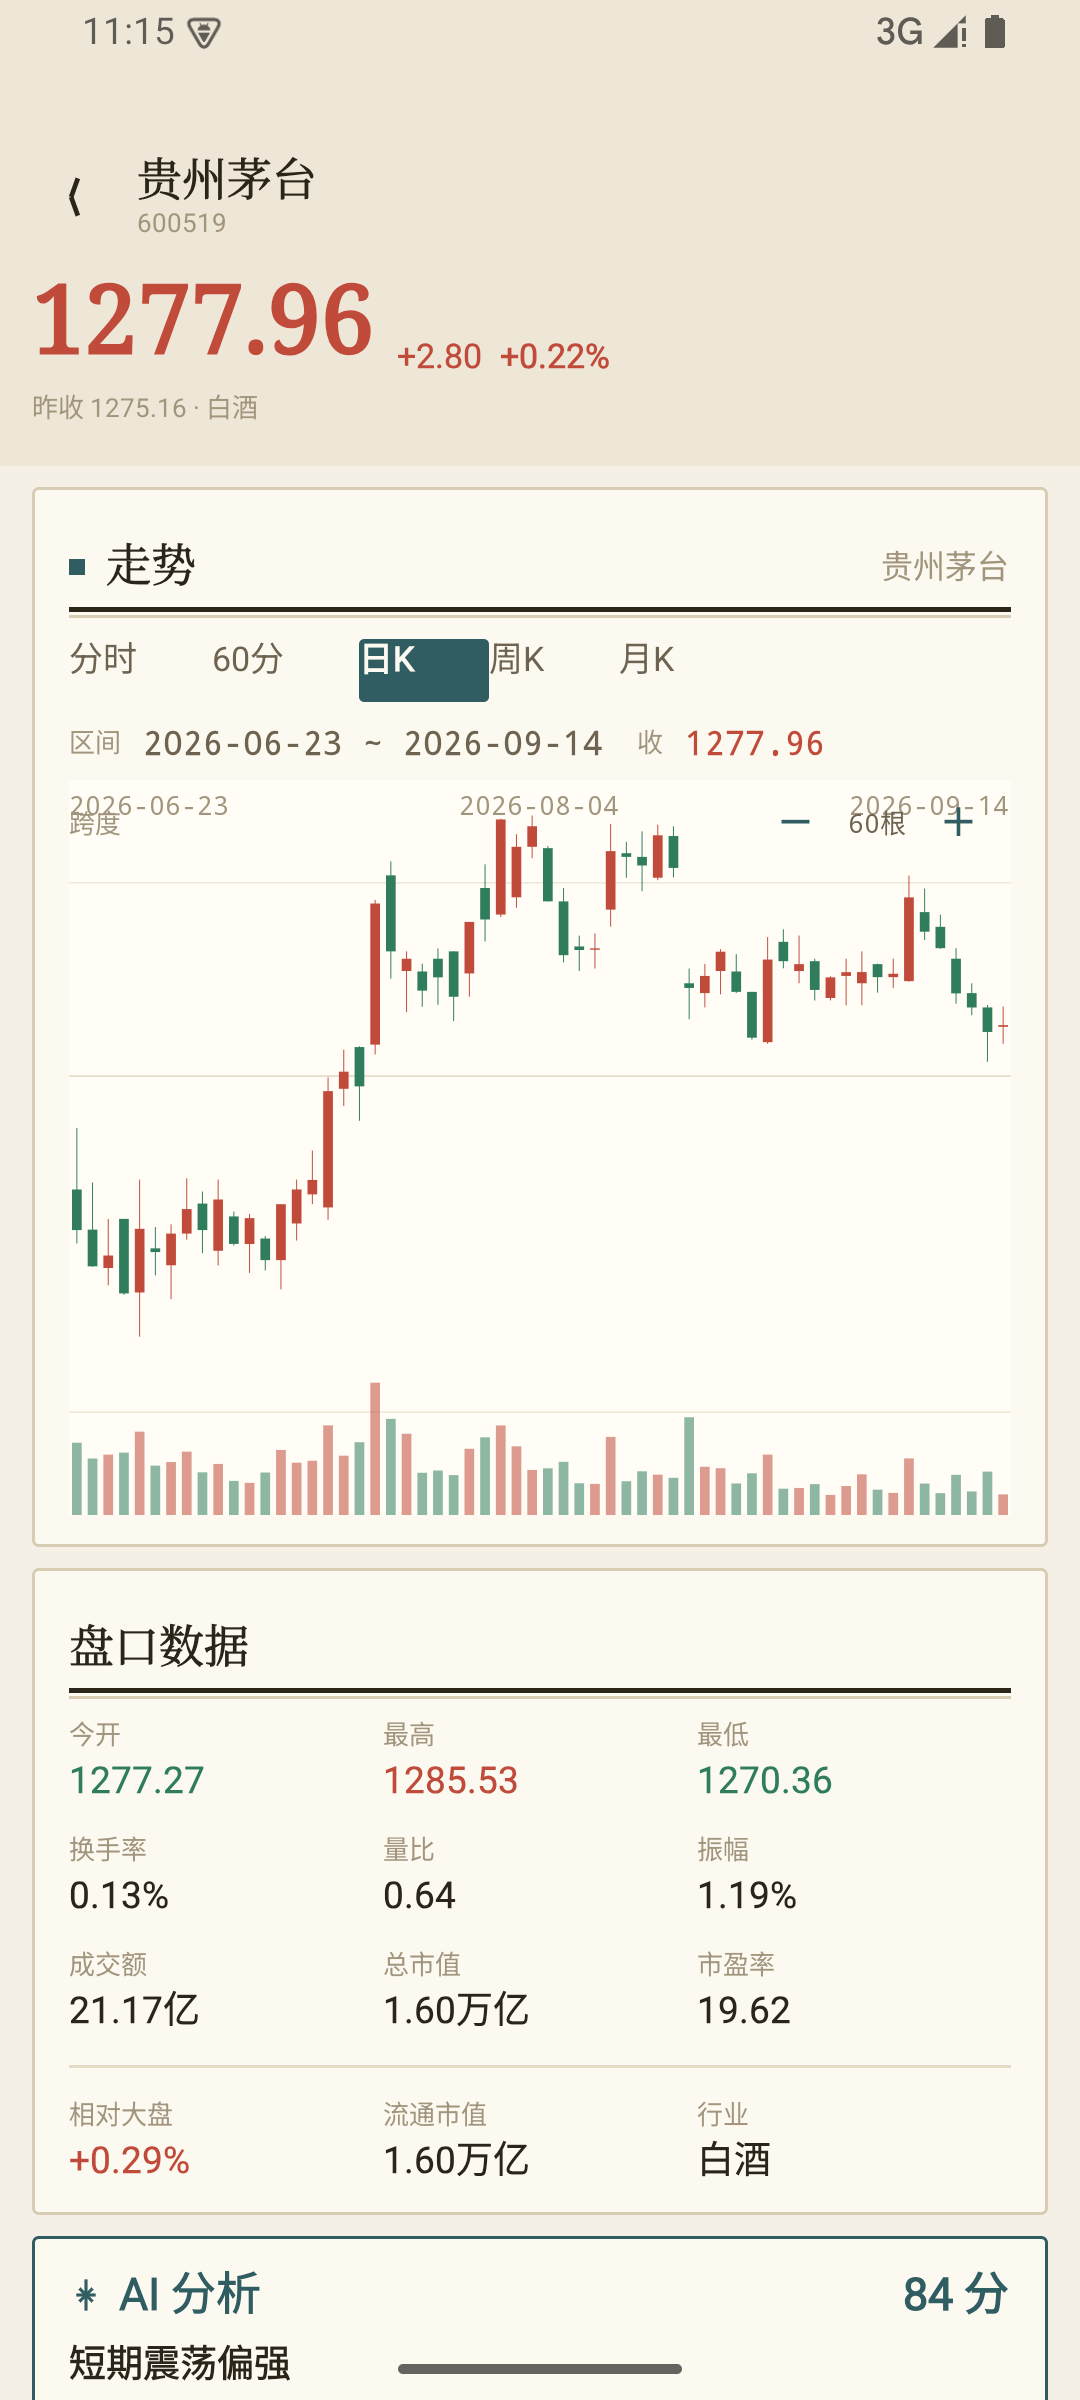
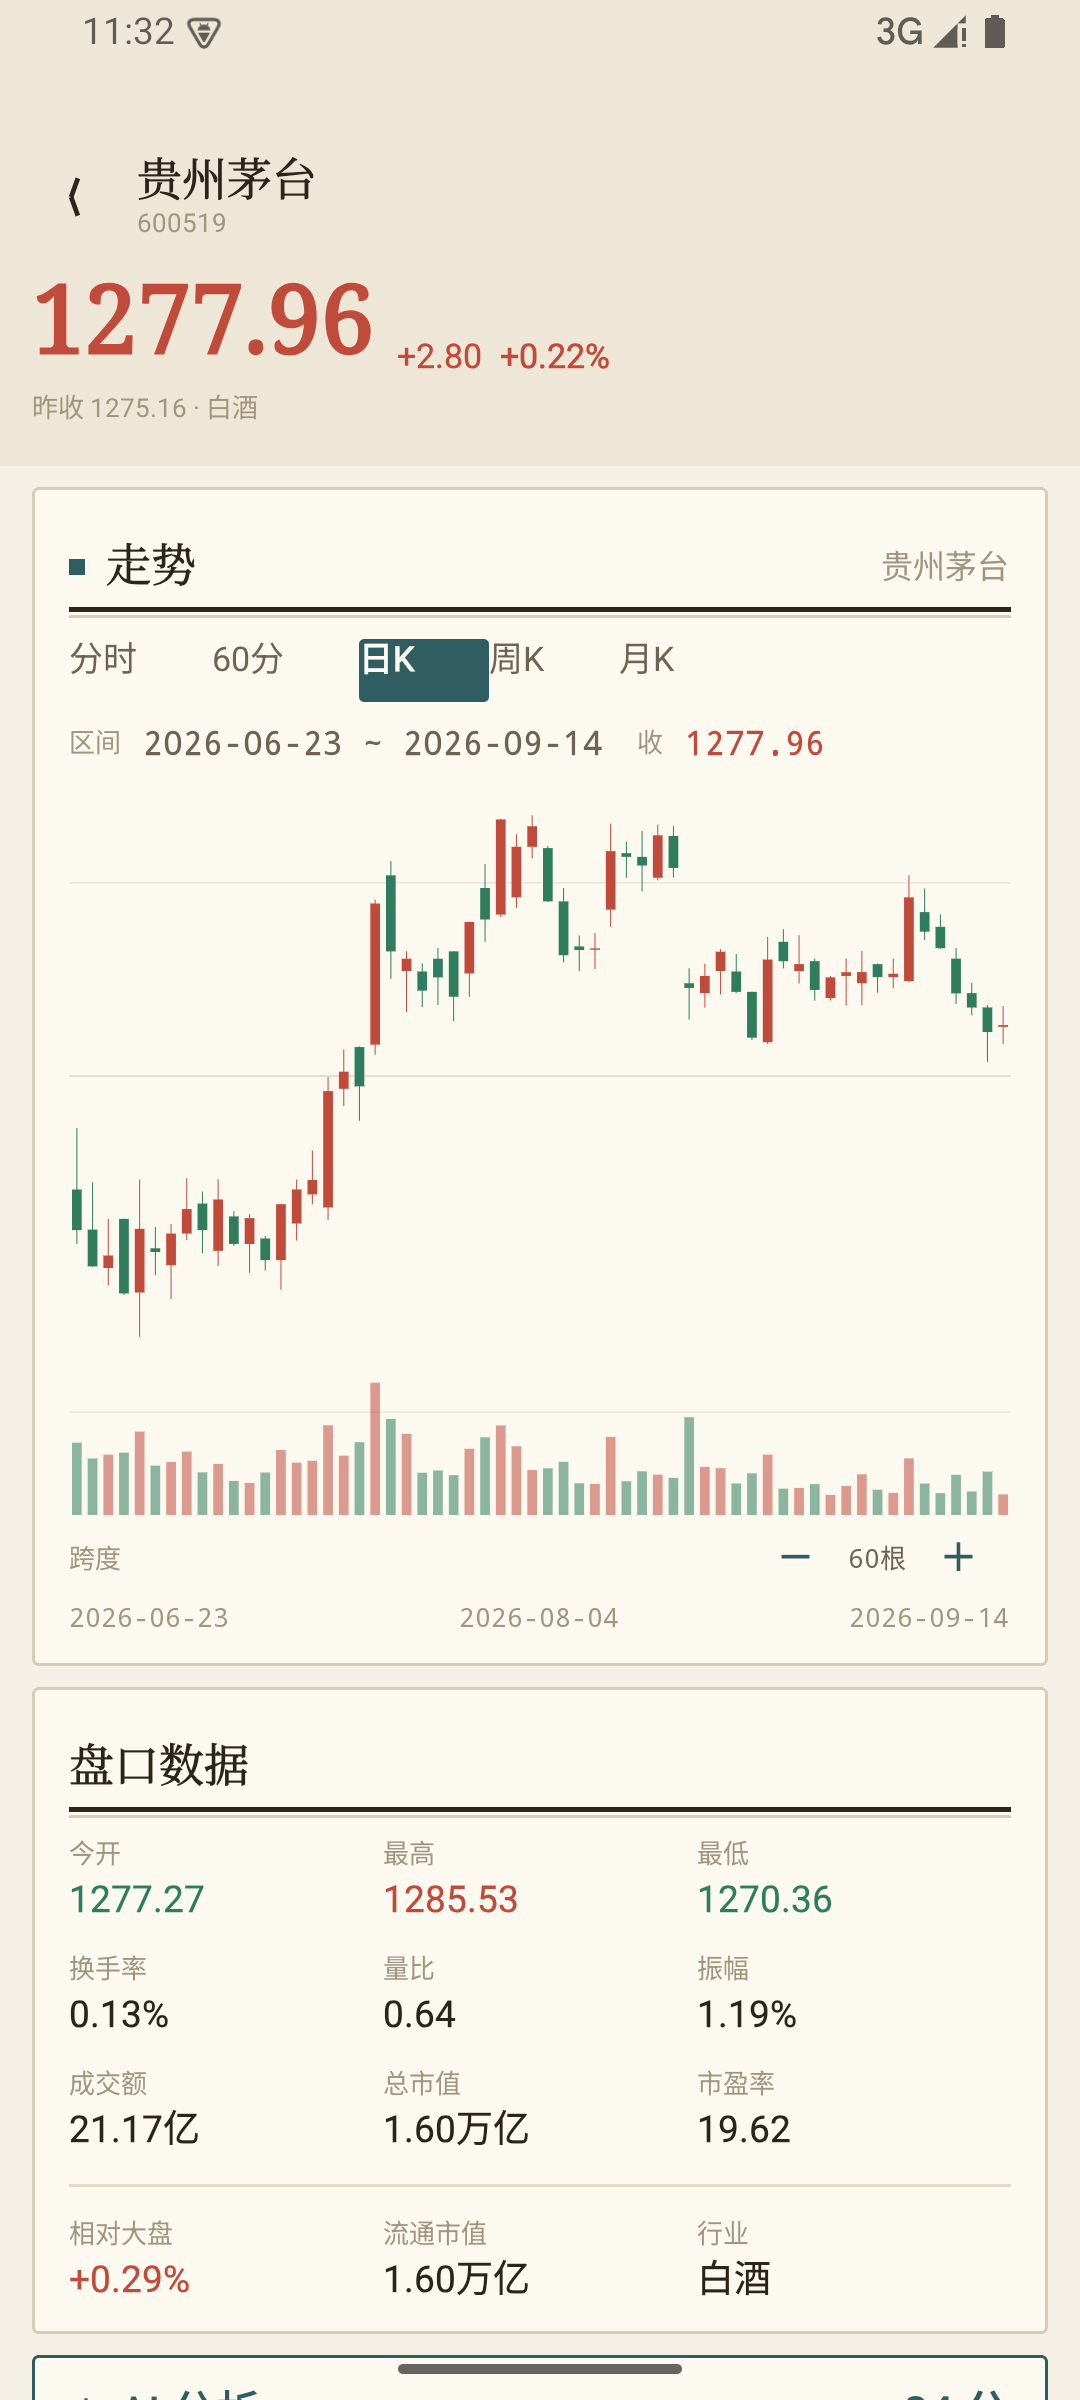
fix: K 线图交互手势失效 + 跨度行位置调整
- 手势模型重做（交互模型对齐参考实现的成熟做法）：
  点击选中/取消十字光标，横向拖动移动十字（拖到窗口边缘时窗口跟随平移）。
  之前用的 detectTransformGestures 在本 fork + 外层 LazyColumn 组合下收不到事件，
  导致图表完全无法交互（实测定位后弃用）。
- 布局：跨度控件行（＋/－/根数）移到成交量条带正下方，时间轴放图例区最底部
- StockChart.kt 整文件重写收敛：补回被多次行级补丁损坏丢失的绘制原语与小件
  （drawGrid/drawSmoothLine/drawCrosshair/ReadoutRow/ReadoutCell/TimeLabels）

实测：点击出现十字并显示 OHLC 读出、横拖十字跟随移动、跨度行位于成交量下方。

diff --git a/shared/src/commonMain/kotlin/com/example/aistock/components/StockChart.kt b/shared/src/commonMain/kotlin/com/example/aistock/components/StockChart.kt
@@ -14,15 +14,15 @@ import com.example.aistock.theme.AppFont
 import com.example.aistock.theme.AppText
 import com.tencent.kuikly.compose.foundation.Canvas
 import com.tencent.kuikly.compose.foundation.clickable
-import com.tencent.kuikly.compose.foundation.gestures.detectTransformGestures
+import com.tencent.kuikly.compose.foundation.gestures.detectHorizontalDragGestures
+import com.tencent.kuikly.compose.foundation.gestures.detectTapGestures
 import com.tencent.kuikly.compose.foundation.layout.Arrangement
 import com.tencent.kuikly.compose.foundation.layout.Box
 import com.tencent.kuikly.compose.foundation.layout.Column
 import com.tencent.kuikly.compose.foundation.layout.Row
 import com.tencent.kuikly.compose.foundation.layout.Spacer
-import com.tencent.kuikly.compose.foundation.layout.fillMaxWidth
 import com.tencent.kuikly.compose.foundation.layout.fillMaxSize
-import com.tencent.kuikly.compose.foundation.background
+import com.tencent.kuikly.compose.foundation.layout.fillMaxWidth
 import com.tencent.kuikly.compose.foundation.layout.height
 import com.tencent.kuikly.compose.foundation.layout.padding
 import com.tencent.kuikly.compose.material3.Text
@@ -39,16 +39,14 @@ import com.tencent.kuikly.compose.ui.text.font.FontWeight
 import com.tencent.kuikly.compose.ui.unit.dp
 
 /**
- * 交互式行情图 —— 对标 steamdt 的 CS2 价格走势组件的交互模型：
+ * 交互式行情图 —— 交互模型对标 steamdt 的 CS2 价格走势组件：
  *
- *  - **单指横拖**：十字光标吸附到最近的 K 线/分时点，顶部读出行显示该时刻的 OHLC；
- *  - **双指捏合**：以捏合中心为锚点缩放时间跨度（可见根数变，Y 轴按窗口自适应）；
- *  - **＋/－ 按钮**：与双指捏合等价（单指设备与自动化测试也能缩放）；
- *  - **单指拖不平移窗口**：十字与平移两个语义混在一个手指上会打架，
- *    steamdt 的取舍是「单指 = 十字，双指 = 缩放」，这里保持一致。
+ *  - **点击**：选中/取消十字光标，吸附到最近的 K 线/分时点，读出行显示该时刻 OHLC；
+ *  - **横向拖动**：十字跟随移动；K 线拖到窗口边缘时窗口跟随平移（能翻看更早/更新的数据）；
+ *  - **跨度 ＋/－ 按钮**：缩放时间跨度（可见根数变，Y 轴按窗口自适应）；
+ *    捏合手势在本 fork 的 LazyColumn 组合下收不到事件（实测），故不提供。
  *
- * 性能关键点：**只画可见窗口**（[ChartWindow]），300 根日 K 缩到 10 根时
- * 仍然只画 10 根，绘制成本不随数据量涨。
+ * 性能关键点：**只画可见窗口**（[ChartWindow]），绘制成本不随数据量涨。
  */
 @Composable
 fun StockChart(
@@ -61,12 +59,14 @@ fun StockChart(
     }
 }
 
-// ================================================================ 分时
+// ================================================================
+// 分时（点序列）
 
 @Composable
 private fun MinuteChart(data: ChartData.Minute, modifier: Modifier) {
     val points = data.series.points
     var crosshair by remember(data) { mutableStateOf<Int?>(null) }
+    val n = points.size
 
     Column(modifier = modifier) {
         ReadoutRow {
@@ -87,26 +87,29 @@ private fun MinuteChart(data: ChartData.Minute, modifier: Modifier) {
             }
         }
 
-        val n = points.size
         Canvas(
             modifier = Modifier
                 .fillMaxWidth()
                 .height(260.dp)
+                // 手势：点击选中/取消十字，横向拖动移动十字
                 .pointerInput(data.series) {
-                    detectTransformGestures { _, pan, zoom, _ ->
-                        if (n < 2) return@detectTransformGestures
-                        val slot = size.width / n
-                        if (zoom == 1f && pan.x != 0f) {
-                            val cur = crosshair ?: n / 2
-                            crosshair = (cur + (pan.x / slot).toInt()).coerceIn(0, n - 1)
-                        }
+                    detectTapGestures { offset ->
+                        if (n < 2) return@detectTapGestures
+                        val i = ((offset.x / size.width) * n).toInt().coerceIn(0, n - 1)
+                        crosshair = if (crosshair == i) null else i
+                    }
+                }
+                .pointerInput(data.series) {
+                    detectHorizontalDragGestures { change, _ ->
+                        if (n < 2) return@detectHorizontalDragGestures
+                        crosshair = ((change.position.x / size.width) * n).toInt().coerceIn(0, n - 1)
                     }
                 },
         ) {
             if (n < 2) return@Canvas
             val w = size.width
             val h = size.height
-            val volH = h * 0.18f                       // 成交量条带高度
+            val volH = h * 0.18f
             val priceH = h - volH - 4.dp.toPx()
             val prev = data.series.prevClose
             // Y 轴以昨收为中心对称
@@ -149,7 +152,8 @@ private fun MinuteChart(data: ChartData.Minute, modifier: Modifier) {
     }
 }
 
-// ================================================================ K 线
+// ================================================================
+// K 线（蜡烛序列）
 
 @Composable
 private fun KlineChart(data: ChartData.Kline, modifier: Modifier) {
@@ -162,6 +166,7 @@ private fun KlineChart(data: ChartData.Kline, modifier: Modifier) {
     val bounds = ChartPeriods.spanBounds(data.series.period, total)
 
     Column(modifier = modifier) {
+        // 读出行：十字处 OHLC；无十字时显示窗口区间与最新收盘
         ReadoutRow {
             val i = crosshair
             if (i != null) {
@@ -186,89 +191,84 @@ private fun KlineChart(data: ChartData.Kline, modifier: Modifier) {
         Box(
             modifier = Modifier
                 .fillMaxWidth()
-                .height(280.dp)
-                .background(AppColors.PanelHi),
+                .height(280.dp),
         ) {
-        Canvas(
-            modifier = Modifier
-                .fillMaxSize()
-                .pointerInput(data.series) {
-                    detectTransformGestures { _, pan, zoom, _ ->
-                        if (total < 2) return@detectTransformGestures
-                        if (zoom != 1f) {
-                            // 双指：以十字（或窗口中心）为锚缩放
-                            val anchor = crosshair ?: (window.start + window.count / 2)
-                            val anchorFrac = ((anchor - window.start).toFloat() / window.count).coerceIn(0f, 1f)
-                            window = window.zoom(zoom, anchorFrac, total, bounds.first, bounds.last)
-                            crosshair = (window.start + (anchorFrac * window.count).toInt())
-                                .coerceIn(window.start, window.endExclusive - 1)
-                        } else if (pan.x != 0f) {
-                            // 单指：拖十字（不平移，语义见类注释）
-                            val slot = size.width / window.count
-                            val cur = crosshair ?: (window.start + window.count / 2)
-                            crosshair = (cur + (pan.x / slot).toInt())
-                                .coerceIn(window.start, window.endExclusive - 1)
+            Canvas(
+                modifier = Modifier
+                    .fillMaxSize()
+                    // 手势：点击选中/取消十字；横向拖动移动十字（拖到边缘时窗口跟随平移）
+                    .pointerInput(data.series) {
+                        detectTapGestures { offset ->
+                            if (total < 2) return@detectTapGestures
+                            val vi = ((offset.x / size.width) * window.count).toInt().coerceIn(0, window.count - 1)
+                            val tapped = window.start + vi
+                            crosshair = if (crosshair == tapped) null else tapped
                         }
                     }
-                },
-        ) {
-            if (total < 2) return@Canvas
-            try {
-            val w = size.width
-            val h = size.height
-            val volH = h * 0.18f
-            val priceH = h - volH - 4.dp.toPx()
+                    .pointerInput(data.series) {
+                        detectHorizontalDragGestures { change, _ ->
+                            if (total < 2) return@detectHorizontalDragGestures
+                            val vi = ((change.position.x / size.width) * window.count).toInt().coerceIn(0, window.count - 1)
+                            if (vi == 0 && window.start > 0) {
+                                window = window.pan(-1, total)
+                            } else if (vi == window.count - 1 && window.endExclusive < total) {
+                                window = window.pan(1, total)
+                            }
+                            crosshair = (window.start + vi).coerceIn(window.start, window.endExclusive - 1)
+                        }
+                    },
+            ) {
+                if (total < 2) return@Canvas
+                try {
+                    val w = size.width
+                    val h = size.height
+                    val volH = h * 0.18f
+                    val priceH = h - volH - 4.dp.toPx()
 
-            val visible = candles.subList(window.start, window.endExclusive)
-            val hi = visible.maxOf { it.high }
-            val lo = visible.minOf { it.low }
-            val range = (hi - lo).coerceAtLeast(1L)
-            val pad = priceH * 0.06f
-            val yOf = { price: Long ->
-                pad + (1f - (price - lo).toFloat() / range) * (priceH - 2 * pad)
-            }
+                    val visible = candles.subList(window.start, window.endExclusive)
+                    val hi = visible.maxOf { it.high }
+                    val lo = visible.minOf { it.low }
+                    val range = (hi - lo).coerceAtLeast(1L)
+                    val pad = priceH * 0.06f
+                    val yOf = { price: Long ->
+                        pad + (1f - (price - lo).toFloat() / range) * (priceH - 2 * pad)
+                    }
 
-            drawGrid(w, h, yOf((hi + lo) / 2L))
+                    drawGrid(w, h, yOf((hi + lo) / 2L))
 
-            val slot = w / window.count
-            val bodyW = (slot * 0.62f).coerceAtLeast(1f)
-            val maxVol = visible.maxOf { it.volume }.coerceAtLeast(1L)
+                    val slot = w / window.count
+                    val bodyW = (slot * 0.62f).coerceAtLeast(1f)
+                    val maxVol = visible.maxOf { it.volume }.coerceAtLeast(1L)
 
-            visible.forEachIndexed { vi, c ->
-                val cx = xFor(vi, window.count, w)   // 注意用窗口内下标：全局下标会让蜡烛画到画布外
-                val color = if (c.bullish) AppColors.Up else AppColors.Down
-                drawLine(color, Offset(cx, yOf(c.high)), Offset(cx, yOf(c.low)), 1f)
-                val top = yOf(maxOf(c.open, c.close))
-                val bh = (yOf(minOf(c.open, c.close)) - top).coerceAtLeast(1f)
-                drawRect(color = color, topLeft = Offset(cx - bodyW / 2, top), size = Size(bodyW, bh))
-                val volH2 = (c.volume.toFloat() / maxVol) * volH
-                drawRect(
-                    color = color.copy(alpha = 0.55f),
-                    topLeft = Offset(cx - bodyW / 2, h - volH2),
-                    size = Size(bodyW, volH2),
-                )
-            }
+                    visible.forEachIndexed { vi, c ->
+                        // 注意 x 用窗口内下标：全局下标会把蜡烛画到画布外
+                        val cx = xFor(vi, window.count, w)
+                        val color = if (c.bullish) AppColors.Up else AppColors.Down
+                        drawLine(color, Offset(cx, yOf(c.high)), Offset(cx, yOf(c.low)), 1f)
+                        val top = yOf(maxOf(c.open, c.close))
+                        val bh = (yOf(minOf(c.open, c.close)) - top).coerceAtLeast(1f)
+                        drawRect(color = color, topLeft = Offset(cx - bodyW / 2, top), size = Size(bodyW, bh))
+                        val volH2 = (c.volume.toFloat() / maxVol) * volH
+                        drawRect(
+                            color = color.copy(alpha = 0.55f),
+                            topLeft = Offset(cx - bodyW / 2, h - volH2),
+                            size = Size(bodyW, volH2),
+                        )
+                    }
 
-            crosshair?.let { i ->
-                candles.getOrNull(i)?.let { c ->
-                    drawCrosshair(xFor(i - window.start, window.count, w), yOf(c.close), w, priceH)
+                    crosshair?.let { i ->
+                        candles.getOrNull(i)?.let { c ->
+                            drawCrosshair(xFor(i - window.start, window.count, w), yOf(c.close), w, priceH)
+                        }
+                    }
+                } catch (e: Throwable) {
+                    // 防御：上游数据形态变化时图表静默失败比整页崩溃好——但必须留日志
+                    println("[StockChart] kline onDraw: " + e.javaClass.name + ": " + e.message)
                 }
             }
-
-            } catch (e: Throwable) {
-                println("[StockChart] kline onDraw 异常: " + e.javaClass.name + ": " + e.message)
-                e.stackTraceToString().split('\n').take(15).forEach { println("[StockChart] " + it) }
-            }
         }
-        TimeLabels(
-            listOf(
-                candles.getOrNull(window.start)?.time ?: "",
-                candles.getOrNull(window.start + window.count / 2)?.time ?: "",
-                candles.getOrNull(window.endExclusive - 1)?.time ?: "",
-            ),
-        )
 
-        // 缩放控件：＋/－ 档位（与双指捏合等价）+ 当前跨度回显
+        // 跨度控件：紧跟成交量条带正下方（＋/－ 与双指捏合等价）+ 当前跨度回显
         Row(
             modifier = Modifier.fillMaxWidth().padding(top = 4.dp),
             verticalAlignment = Alignment.CenterVertically,
@@ -308,11 +308,20 @@ private fun KlineChart(data: ChartData.Kline, modifier: Modifier) {
                     .padding(horizontal = 12.dp, vertical = 4.dp),
             )
         }
+
+        // 时间轴：窗口首 / 中 / 尾（图例区最底部）
+        TimeLabels(
+            listOf(
+                candles.getOrNull(window.start)?.time ?: "",
+                candles.getOrNull(window.start + window.count / 2)?.time ?: "",
+                candles.getOrNull(window.endExclusive - 1)?.time ?: "",
+            ),
+        )
     }
 }
-}
 
-// ================================================================ 绘制原语
+// ================================================================
+// 绘制原语
 
 private const val ZOOM_STEP = 1.35f
 
@@ -355,7 +364,8 @@ private fun DrawScope.drawCrosshair(x: Float, y: Float, w: Float, h: Float) {
     drawCircle(AppColors.Panel, radius = 1.6f, center = Offset(x, y))
 }
 
-// ================================================================ 小件
+// ================================================================
+// 小件
 
 @Composable
 private fun ReadoutRow(content: @Composable () -> Unit) {
